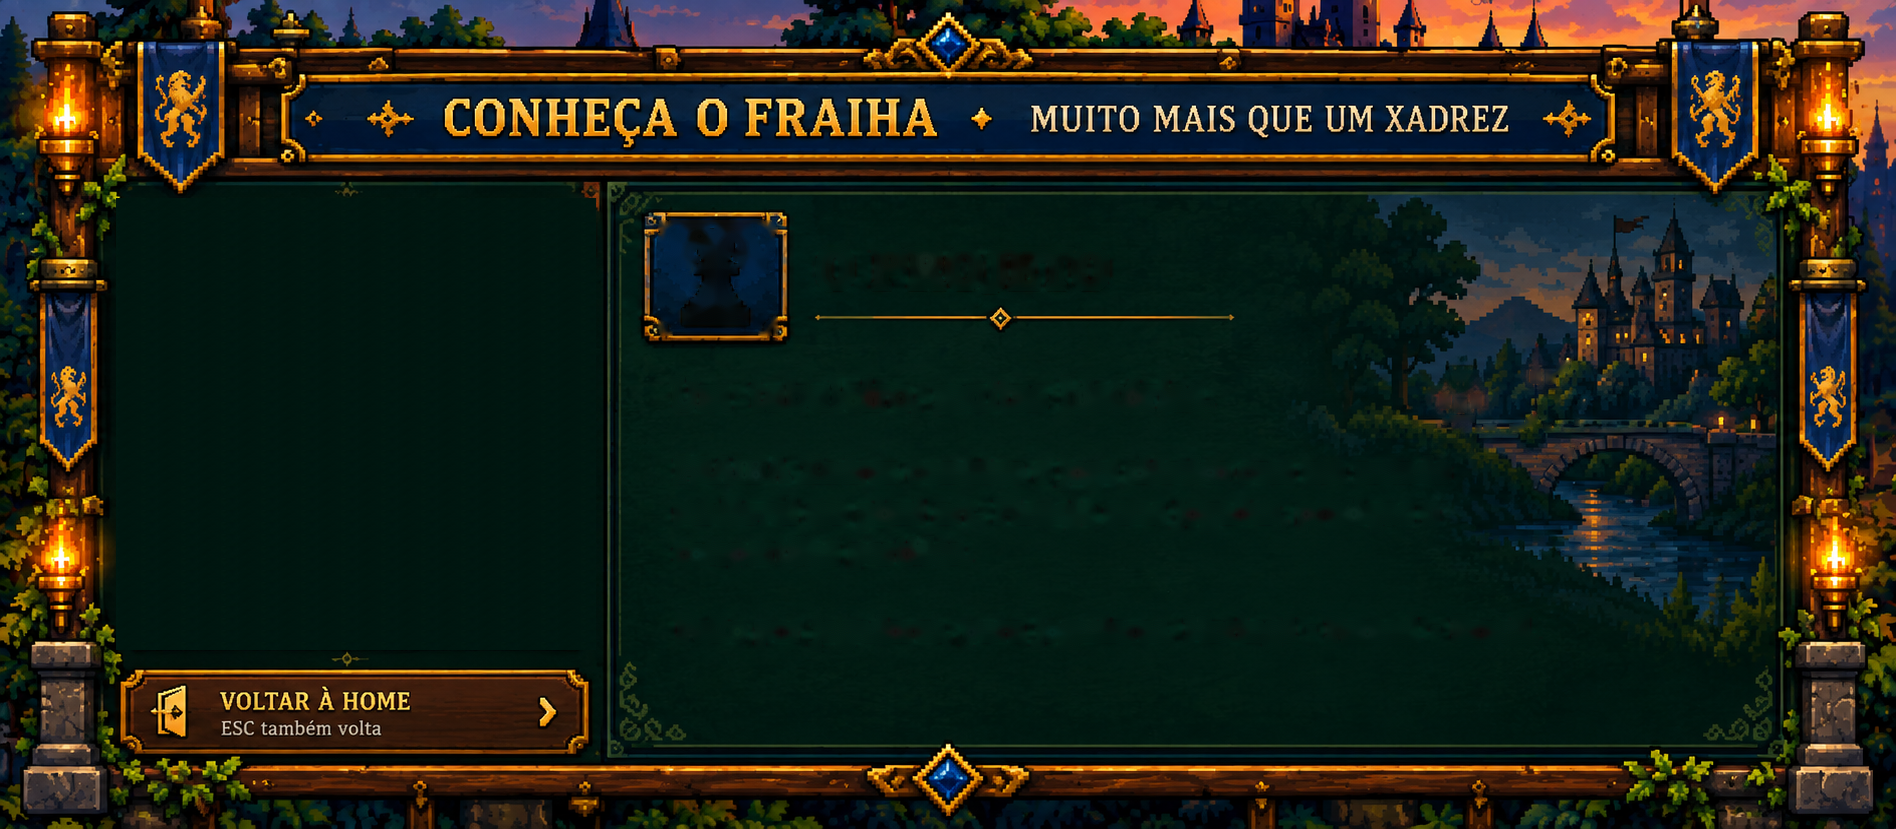
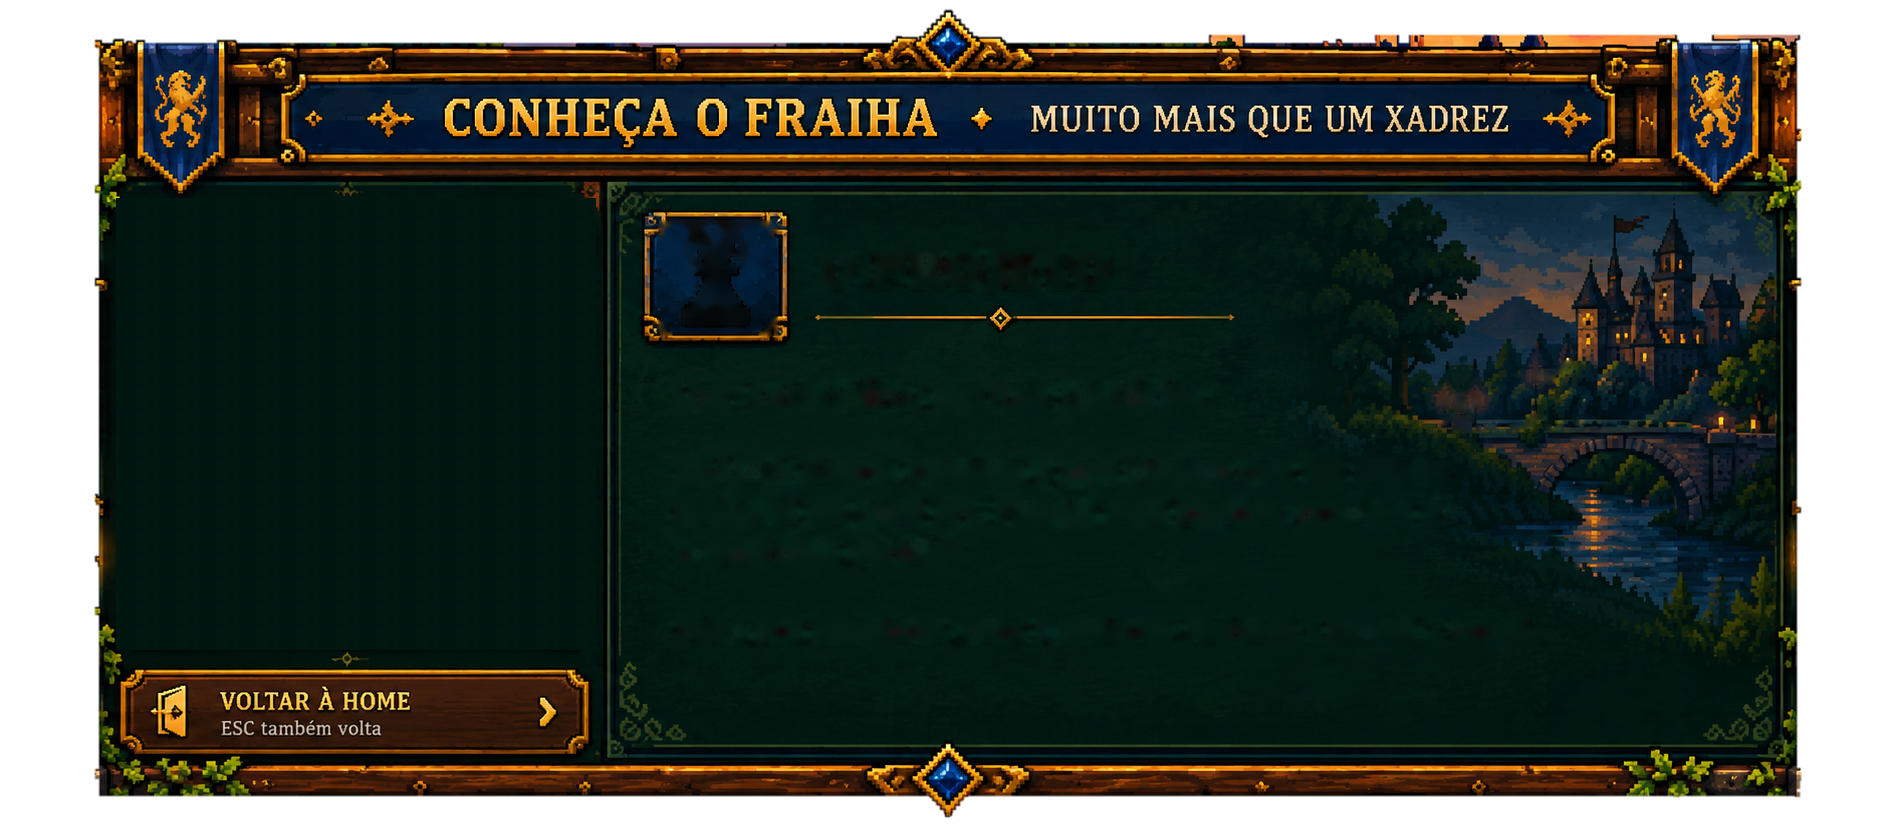
fix(ui): páginas de referência só com moldura e miolo; fundo transparente e painéis dentro da área segura (R51b)
Claude-Session: https://claude.ai/code/session_016vKvXoMfUjcNC2AWvYdkWV

Changed region(s): [[0.0, 0.0, 1.0, 1.0]]

diff --git a/tools/ref_pages_build.py b/tools/ref_pages_build.py
@@ -13,10 +13,57 @@ OUT = os.path.join(ROOT, 'ui_kit', 'pages')
 os.makedirs(OUT, exist_ok=True)
 
 def load(n): return np.array(Image.open(os.path.join(REF, n + '.png')).convert('RGB'))
-def save(a, n):
-    Image.fromarray(a.astype(np.uint8)).save(os.path.join(OUT, n + '.png'))
 def save_rgba(a, n):
     Image.fromarray(a.astype(np.uint8), 'RGBA').save(os.path.join(OUT, n + '.png'))
+
+## R51b · Só a MOLDURA e o miolo da referência: tudo que é cenário em volta (pilares, tochas, céu, mata)
+## fica transparente, para a Home do jogo aparecer em volta. O contorno dourado da moldura é a barreira:
+## enche-se a partir das bordas da imagem por tudo que não é dourado; fica só o pedaço ligado ao miolo.
+## inner = retângulo certamente dentro da moldura; clip = caixa externa máxima; cuts = sobras a apagar.
+FRAME = {
+    'hist_bg': dict(ref='historico', inner=(40, 50, 1850, 815)),
+    'about_bg': dict(ref='conheca', inner=(100, 44, 1796, 795), clip=(96, 36, 1800, 829), keep=[(880, 0, 1016, 60)]),
+    'config_bg': dict(ref='config', inner=(40, 80, 1310, 1140), cuts=[(0, 300, 36, 1000), (1316, 300, 1353, 1000)]),
+    'bots_bg': dict(ref='bots', inner=(60, 110, 1610, 910)),
+    'ligas_bg': dict(ref='ligas', inner=(60, 110, 1610, 910), cuts=[(0, 400, 55, 850), (1615, 400, 1672, 850)]),
+    'perfil_bg': dict(ref='perfil', inner=(20, 40, 1210, 370)),
+}
+def frame_alpha(a, inner, clip=None, keep=(), cuts=()):
+    r, g, b = [a[..., i].astype(int) for i in range(3)]
+    gold = (r > 140) & (g > 90) & (r - b > 60) & (r >= g)
+    bar = cv2.dilate(gold.astype(np.uint8) * 255, np.ones((3, 3), np.uint8))
+    x0, y0, x1, y1 = inner
+    bar[y0:y1, x0:x1] = 255
+    h, w = bar.shape
+    fm = np.zeros((h + 2, w + 2), np.uint8)
+    seeds = [(x, 0) for x in range(0, w, 5)] + [(x, h - 1) for x in range(0, w, 5)] + \
+            [(0, y) for y in range(0, h, 5)] + [(w - 1, y) for y in range(0, h, 5)]
+    for (x, y) in seeds:
+        if bar[y, x] == 0: cv2.floodFill(bar, fm, (x, y), 128)
+    kept = (bar != 128).astype(np.uint8)
+    _, lab = cv2.connectedComponents(kept, connectivity=8)
+    kept = (lab == lab[(y0 + y1) // 2, (x0 + x1) // 2]).astype(np.uint8) * 255
+    if clip is not None:
+        cm = np.zeros_like(kept)
+        cx0, cy0, cx1, cy1 = clip
+        cm[cy0:cy1, cx0:cx1] = 255
+        for (kx0, ky0, kx1, ky1) in keep: cm[ky0:ky1, kx0:kx1] = 255
+        kept &= cm
+    for (kx0, ky0, kx1, ky1) in cuts: kept[ky0:ky1, kx0:kx1] = 0
+    _, lab = cv2.connectedComponents((kept > 0).astype(np.uint8), connectivity=8)
+    kept = (lab == lab[(y0 + y1) // 2, (x0 + x1) // 2]).astype(np.uint8) * 255
+    kept = cv2.dilate(kept, np.ones((3, 3), np.uint8))       # o contorno escuro do dourado fica
+    return cv2.GaussianBlur(kept, (3, 3), 0)
+
+def save(a, n):
+    if n in FRAME:
+        f = dict(FRAME[n])
+        al = frame_alpha(load(f.pop('ref')), **f)
+        rgb = a.astype(np.uint8).copy()
+        rgb[al == 0] = 0
+        Image.fromarray(np.dstack([rgb, al]), 'RGBA').save(os.path.join(OUT, n + '.png'))
+        return
+    Image.fromarray(a.astype(np.uint8)).save(os.path.join(OUT, n + '.png'))
 
 def inpaint(a, mask, r=6):
     bgr = cv2.cvtColor(a.astype(np.uint8), cv2.COLOR_RGB2BGR)
